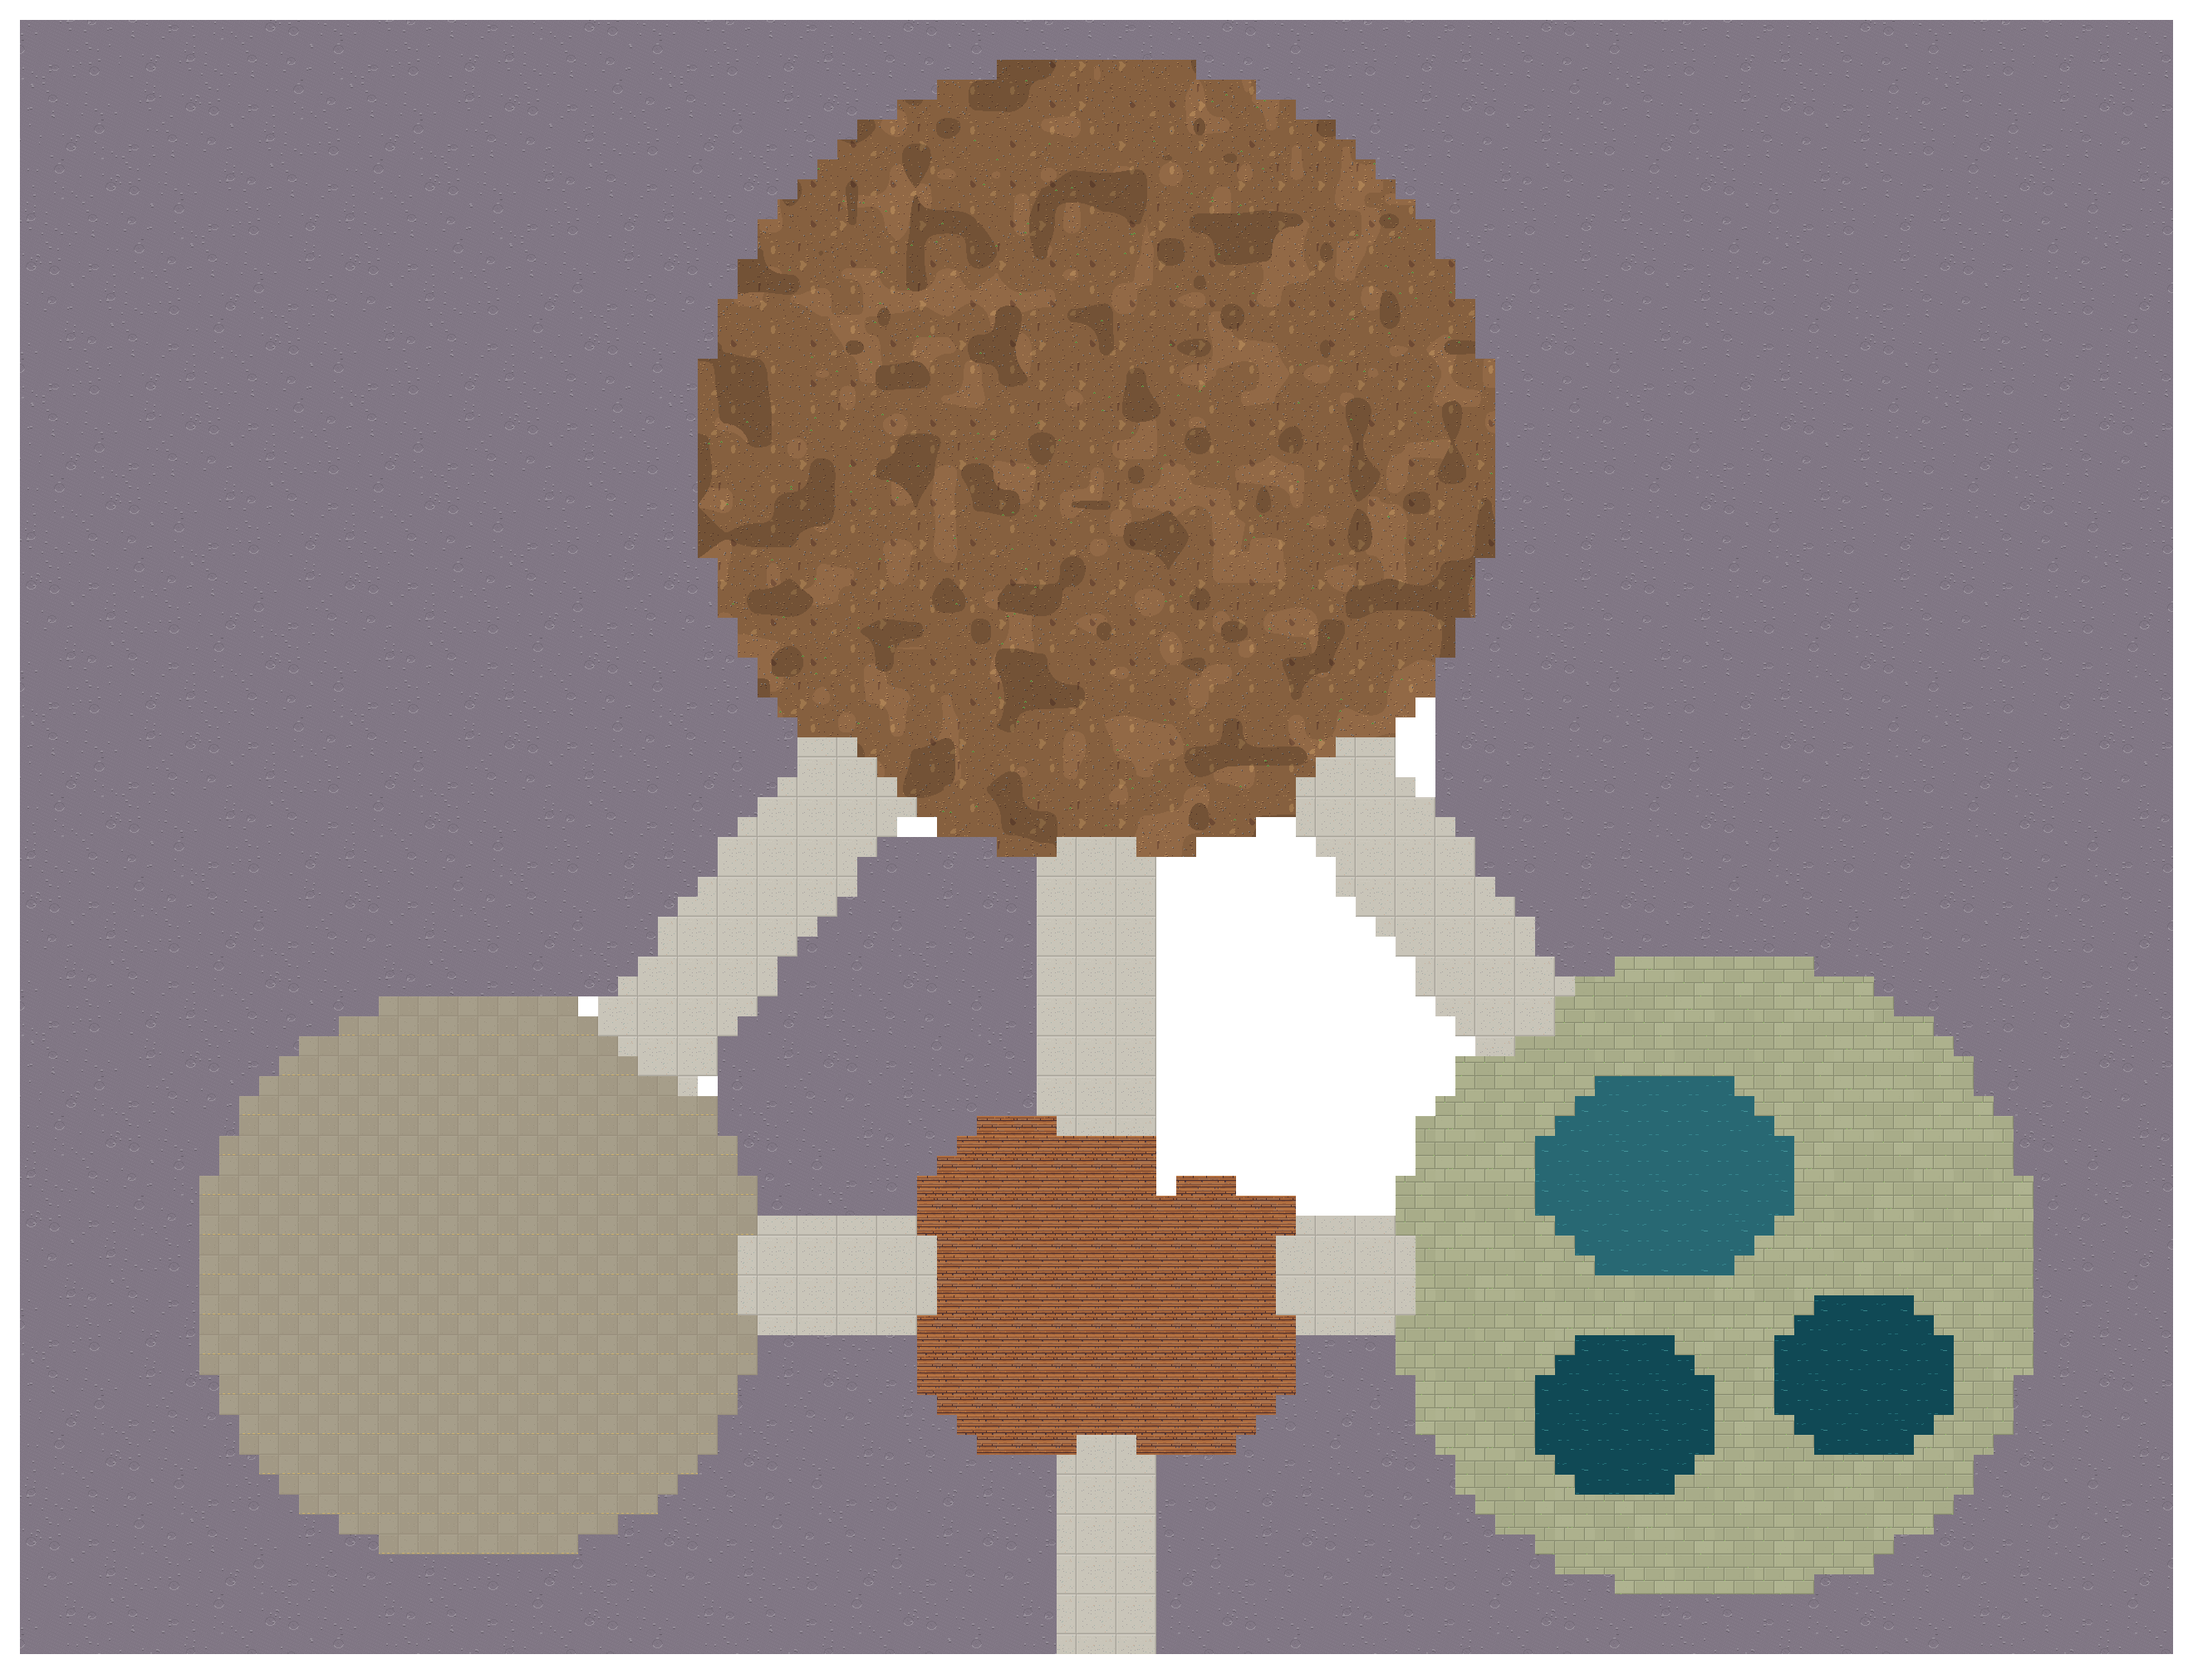
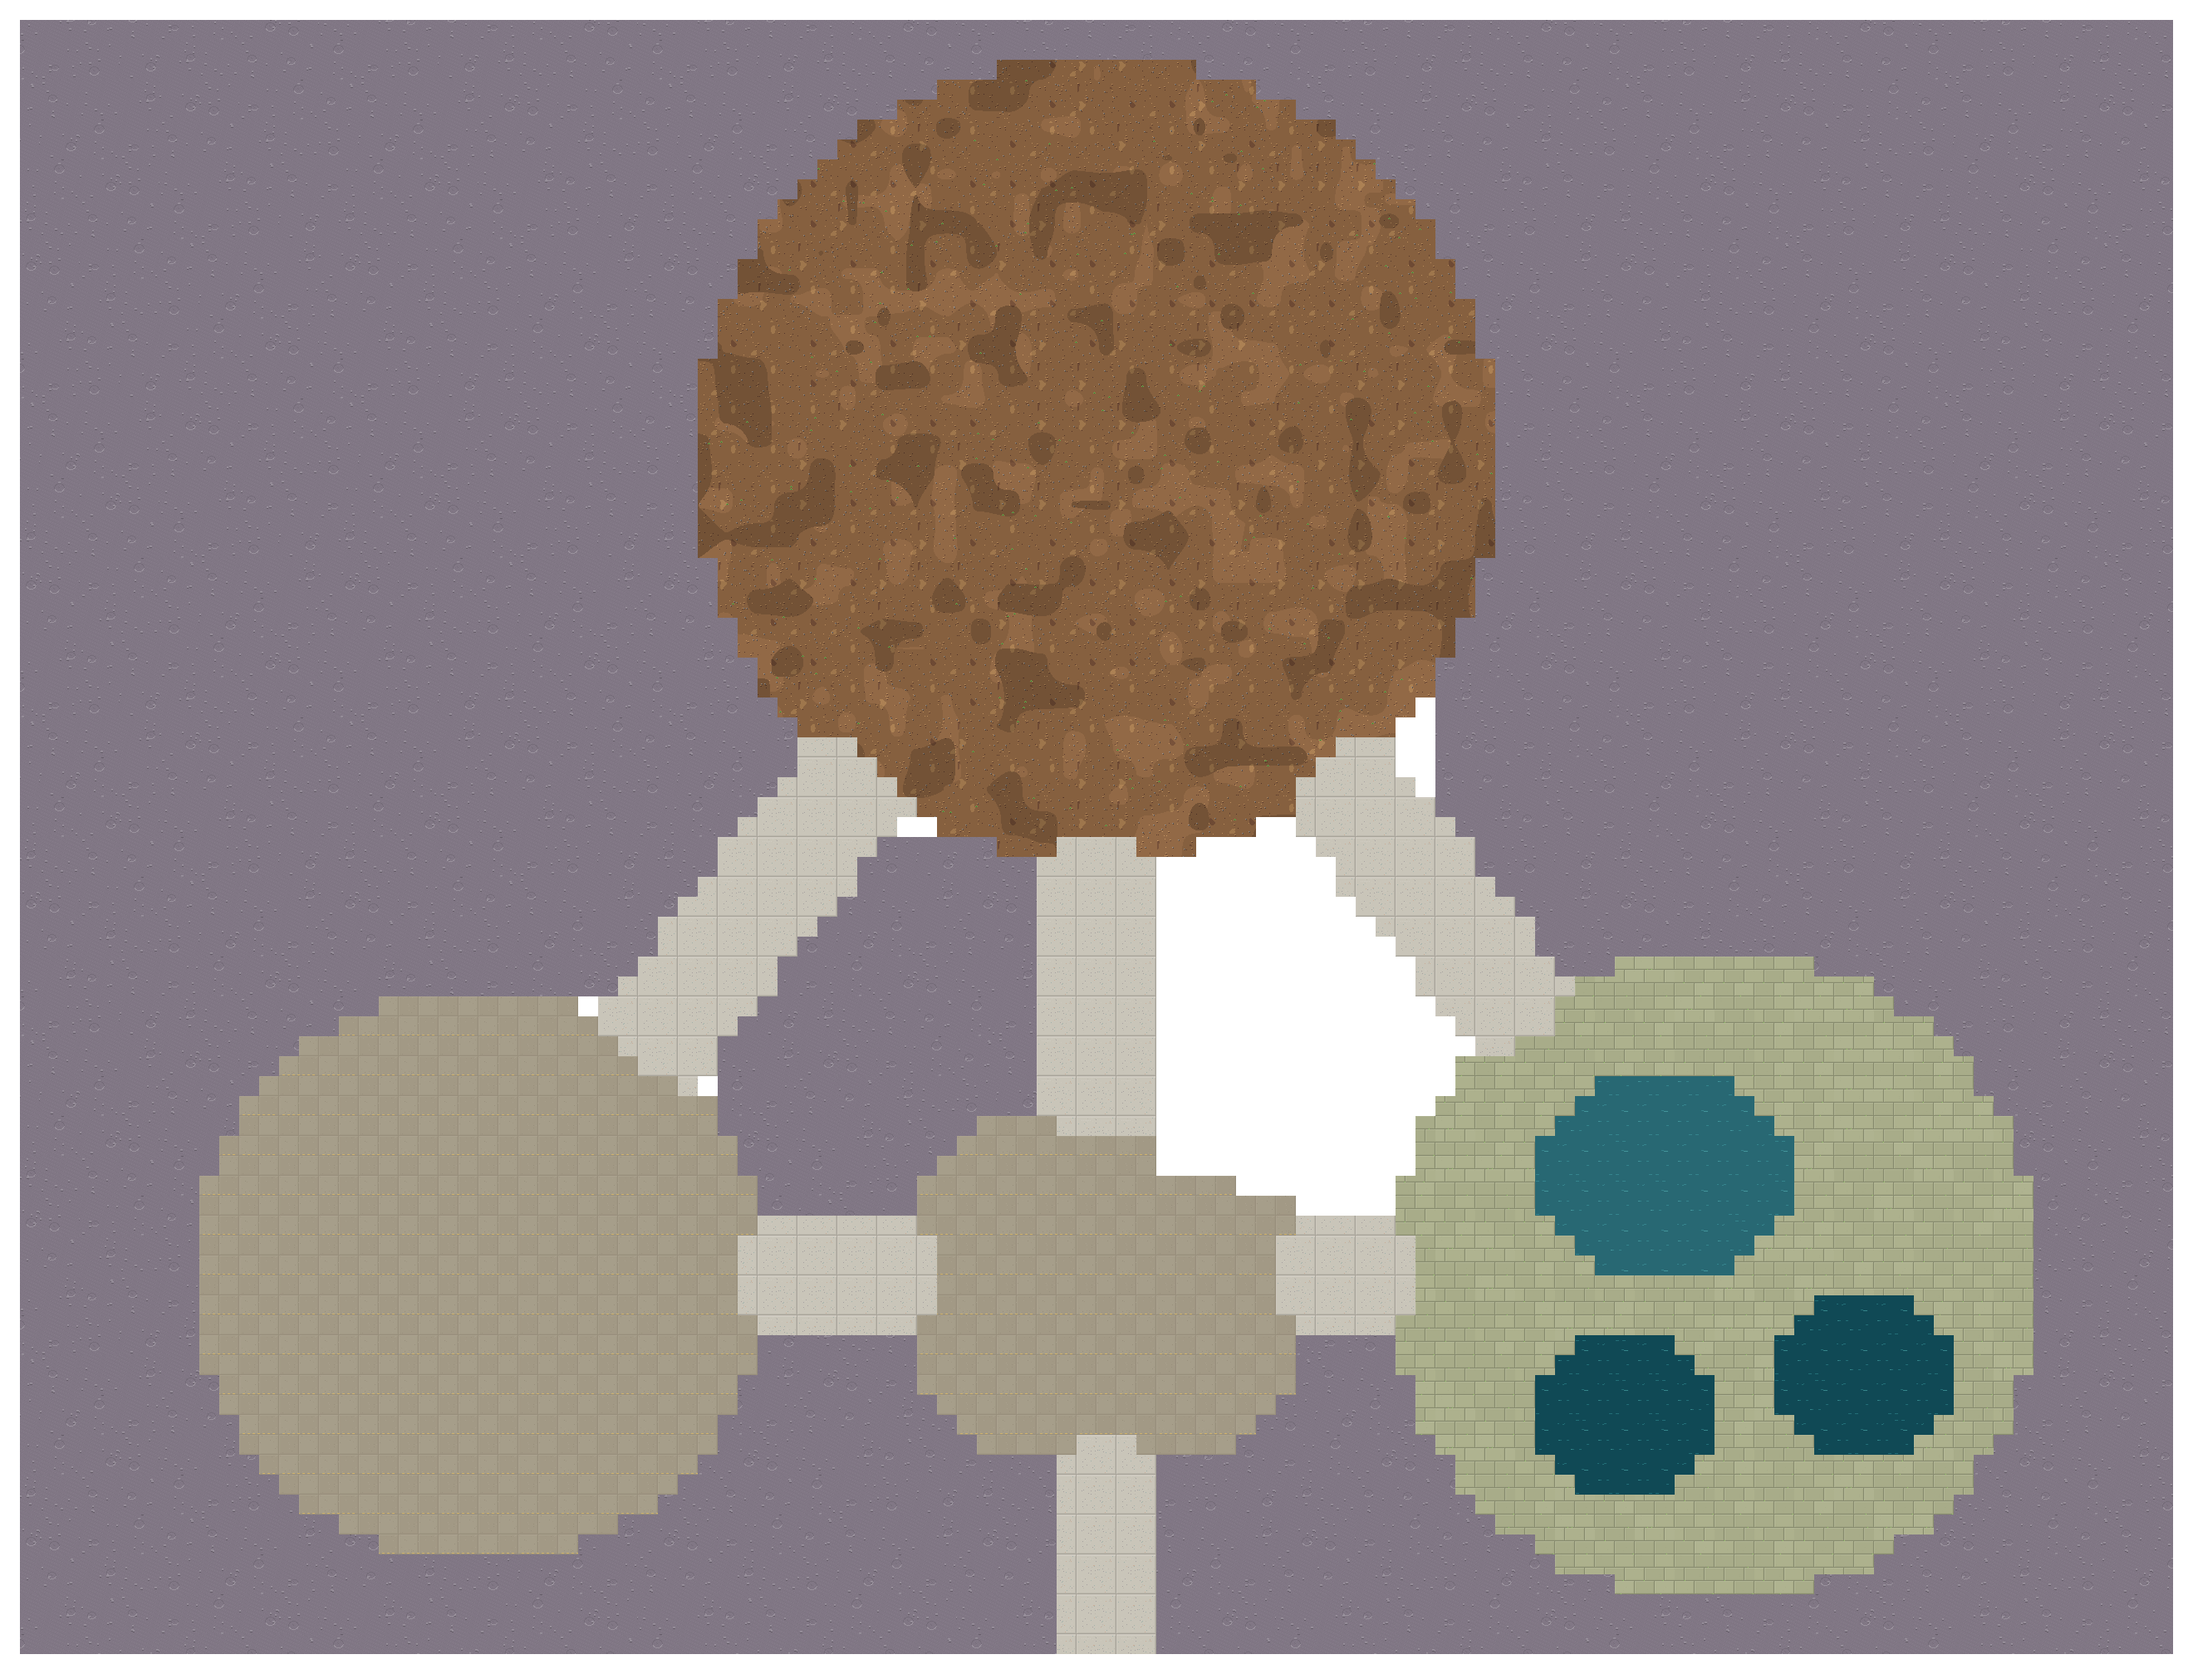
Softer house edges; the porch floored like the workshop
Zachary: "soften the sharp edges of the house, remove the wood flooring from the proch
make it like the left circle".

- The house's roof has its corners cut at 45 degrees (2 tiles at the top, 3 at the
  bottom right where it meets the hot springs link), and its corner on the porch is cut
  too. The siding is only on its front over the porch now, so the front no longer steps
  down over the link.
- bake_floor.HOUSE_FRONTS entries are now dicts: roof area with a cut per corner, front
  area, roof and wall art.
- The porch uses the workshop's floor ('f', concrete with a warm tint) instead of the
  wooden decking.

Not run in Godot.

Claude-Session: https://claude.ai/code/session_013NFuzCtsXhGx4vnyseTSue

Changed region(s): [[0.4038, 0.6562, 0.5902, 0.875]]

diff --git a/tools/bake_floor.py b/tools/bake_floor.py
@@ -307,8 +307,7 @@ AREA_FLOORS = {
     "west": {".": ("arrivals/terminal", None), "p": ("arrivals/plaza", None), "f": ("arrivals/carpet", None), "h": ("arrivals/carpet_blue", None), "u": ("arrivals/terminal", None),
              "A": ("arrivals/plaza", None), "Q": ("sp_moon", None), "V": ("eng_floor_pad", None), "g": ("arrivals/glass", None), "Y": ("arrivals/basin", None)},
     "agri": {"Q": ("agri/moon", None), "a": ("agri/soil", None), "h": ("eng_floor_concrete", None), "f": ("eng_floor_concrete", ("c8a070", 0.15)), "s": ("agri/spa", None),
-             "u": ("sp_terminal", None), "O": ("agri/water", ("70c8d0", 0.25)), "Y": ("agri/water", None),
-             "k": ("home/deck", None)},          # the front porch's decking (23 Nov)
+             "u": ("sp_terminal", None), "O": ("agri/water", ("70c8d0", 0.25)), "Y": ("agri/water", None)},
     "east": {".": ("sp_plaza", None), "s": ("ea_grass", None), "h": ("ea_deck", None), "a": ("sp_soil", None), "f": ("ea_rubber", None),
              "k": ("ea_court", None), "o": ("ea_deck", None), "t": ("ea_tile", None), "e": ("eng_floor_grate", None), "u": ("sp_terminal", None),
              "A": ("sp_terminal", None), "Y": ("agri/water", None), "O": ("agri/water", ("70c8d0", 0.25)), "p": ("east/dock", None),
@@ -889,7 +888,10 @@ ROOF_TINTS = ["ffffff", "dbe4ee", "f0e9df", "c6d3e2"]
 
 ROOF_ZONE_FN = {}             # level key -> fn(tx, ty) giving roof zones, set by tools/east.py and others
 # Buildings that stand inside a map and are drawn in their own materials, not the map's walls (23 Nov: your
-# apartment on the agri complex's front porch): key -> [(x0, y0, x1, y1, roof, wall face)], tiles inclusive.
+# apartment on the agri complex's front porch): key -> [{"roof": (x0, y0, x1, y1), "cuts": (top-left, top-right,
+# bottom-left, bottom-right), "front": (x0, y0, x1, y1), "roof_art": ..., "wall_art": ...}], tiles inclusive.
+# The roof's corners are cut at 45 degrees by `cuts` tiles, so the building reads soft-edged rather than as a hard
+# rectangle; the wall faces of the tiles in `front` are drawn in wall_art.
 HOUSE_FRONTS = {}
 
 
@@ -1041,10 +1043,15 @@ def bake_walls(key, rows, art_dir, window=None, sigma=15.0, style="facet"):
             mask = roof & (indices == index)
             tile = np.asarray(Image.open(os.path.join(art_dir, roof_name + suffix + ".png"))) / 255.
             rc[mask] = tile[(yy[mask]+PX) % (2*PX), xx[mask] % (2*PX)]
-    for (hx0, hy0, hx1, hy1, h_roof, _) in HOUSE_FRONTS.get(key, []):
-        mr_ = np.asarray(Image.open(os.path.join(art_dir, h_roof + ".png")).convert("RGB"), dtype=np.float32) / 255.0
-        rty_, rtx_ = (yy + PX) // PX, xx // PX
-        in_ = roof & (rtx_ >= hx0) & (rtx_ <= hx1) & (rty_ >= hy0) & (rty_ <= hy1)
+    for hf_ in HOUSE_FRONTS.get(key, []):
+        hx0, hy0, hx1, hy1 = hf_["roof"]
+        ctl, ctr, cbl, cbr = hf_["cuts"]
+        mr_ = np.asarray(Image.open(os.path.join(art_dir, hf_["roof_art"] + ".png")).convert("RGB"), dtype=np.float32) / 255.0
+        rx_, ry_ = xx + .5, yy + PX + .5                              # the roof pixel's place on the tile grid
+        l_, r_ = rx_ - hx0 * PX, (hx1 + 1) * PX - rx_
+        t_, b_ = ry_ - hy0 * PX, (hy1 + 1) * PX - ry_
+        in_ = roof & (l_ >= 0) & (r_ >= 0) & (t_ >= 0) & (b_ >= 0) & (l_ + t_ >= ctl * PX) & (r_ + t_ >= ctr * PX) \
+            & (l_ + b_ >= cbl * PX) & (r_ + b_ >= cbr * PX)
         rc[in_] = _tex_lookup(mr_, yy + PX, xx)[in_]
     out[roof, :3] = rc[roof]
     # wall face: the material stretched over 32 pixels, or the window view where the wall is a window
@@ -1067,8 +1074,9 @@ def bake_walls(key, rows, art_dir, window=None, sigma=15.0, style="facet"):
             if key == "hotel": mask &= ~wing                         # no paintings or sconces on the bare ribs
             tile = np.asarray(Image.open(os.path.join(art_dir, wall_name + suffix + ".png"))) / 255.
             fc[mask] = tile[v[mask], xx[mask] % (2*PX)]
-    for (hx0, hy0, hx1, hy1, _, h_wall) in HOUSE_FRONTS.get(key, []):
-        mw_ = np.asarray(Image.open(os.path.join(art_dir, h_wall + ".png")).convert("RGB"), dtype=np.float32) / 255.0
+    for hf_ in HOUSE_FRONTS.get(key, []):
+        hx0, hy0, hx1, hy1 = hf_["front"]
+        mw_ = np.asarray(Image.open(os.path.join(art_dir, hf_["wall_art"] + ".png")).convert("RGB"), dtype=np.float32) / 255.0
         in_ = face & (ftx >= hx0) & (ftx <= hx1) & (fty >= hy0) & (fty <= hy1 + 1)
         fw_ = mw_[(v * mw_.shape[0]) // (2 * PX), ((xx % (2 * PX)) * mw_.shape[1]) // (2 * PX)]
         fc[in_] = fw_[in_]

diff --git a/tools/spaceport.py b/tools/spaceport.py
@@ -128,7 +128,9 @@ def build(g):
     # intersecting hallway, then place the home on the top right of that circle"): the porch is the old shed's size
     # (17 x 15), sitting on the crossing where the workshop-springs link meets the way in from the junction, and your
     # apartment is a building of its own on its top-right corner, with a plank roof and a sided front
-    # (bake_floor.HOUSE_FRONTS), its door opening onto the porch.
+    # (bake_floor.HOUSE_FRONTS), its door opening onto the porch. Then ("soften the sharp edges of the house, remove
+    # the wood flooring from the porch make it like the left circle"): the roof's corners are cut at 45 degrees,
+    # the house's corner on the porch is cut too, and the porch is floored like your workshop ('f').
     a = Room(g, 'agri', 'Agri Complex', 110, 84)
     F = a.F
     fill(F, 1, 1, 108, 82, '#')
@@ -136,7 +138,7 @@ def build(g):
     disc(F, 24, 64, 13, 'f')                                     # your workshop
     disc(F, 86, 64, 15, 's')                                     # hot springs and fish ponds
     porch = (47, 57, 63, 71)
-    chamfer_room(F, porch[0], porch[1], porch[2], porch[3], 'k', 3)   # the front porch: wooden decking
+    chamfer_room(F, porch[0], porch[1], porch[2], porch[3], 'f', 3)   # the front porch, floored like the workshop
     chamfer_room(F, 77, 54, 89, 63, 'O', 3)                      # the hot spring
     chamfer_room(F, 89, 65, 97, 72, 'Y', 2); chamfer_room(F, 77, 67, 85, 74, 'Y', 2)   # fish ponds
     band(F, (55, 23), (24, 64), 1.6, 'u'); band(F, (55, 23), (86, 64), 1.6, 'u'); band(F, (24, 64), (86, 64), 1.6, 'u')
@@ -144,13 +146,15 @@ def build(g):
     fill(F, 54, 72, 56, 81, 'u')                                 # the way in, from the junction
     agri_in = (55, 82); F[agri_in[1]][agri_in[0]] = 'u'
     # Your apartment: a building between the link up to your field and the hot springs link, standing on the
-    # porch's top-right corner (x 57-63 down to y 60); its front runs on over the link to the hot springs.
-    house_front = (57, 43, 67, 60)
-    fill(F, 57, porch[1], porch[2], house_front[3], '#')
-    home_door = (60, house_front[3]); F[home_door[1]][home_door[0]] = 'k'
+    # porch's top-right corner (x 57-63 down to y 60); its roof runs back over the link to the hot springs.
+    house_front = (57, 43, 63, 60)
+    fill(F, 57, porch[1], porch[2], 60, '#')
+    F[60][57] = 'f'                                              # its corner on the porch, cut at 45 degrees
+    home_door = (60, 60); F[home_door[1]][home_door[0]] = 'f'
     g['PLAYER_HOME_DOOR'] = ('agri', home_door)
     import bake_floor
-    bake_floor.HOUSE_FRONTS['agri'] = [house_front + ('hotel/cap_mix', 'east/wall')]
+    bake_floor.HOUSE_FRONTS['agri'] = [{"roof": (57, 43, 67, 61), "cuts": (2, 2, 0, 3), "front": house_front,
+                                        "roof_art": 'hotel/cap_mix', "wall_art": 'east/wall'}]
     # The rest of the block behind it, between the glass links, stays roof rather than bare moon.
     house = {(x, y) for x in range(57, 73) for y in range(34, 62)}
     # Outside the domes and links is bare moon, with a two-tile station wall round everything inside.
